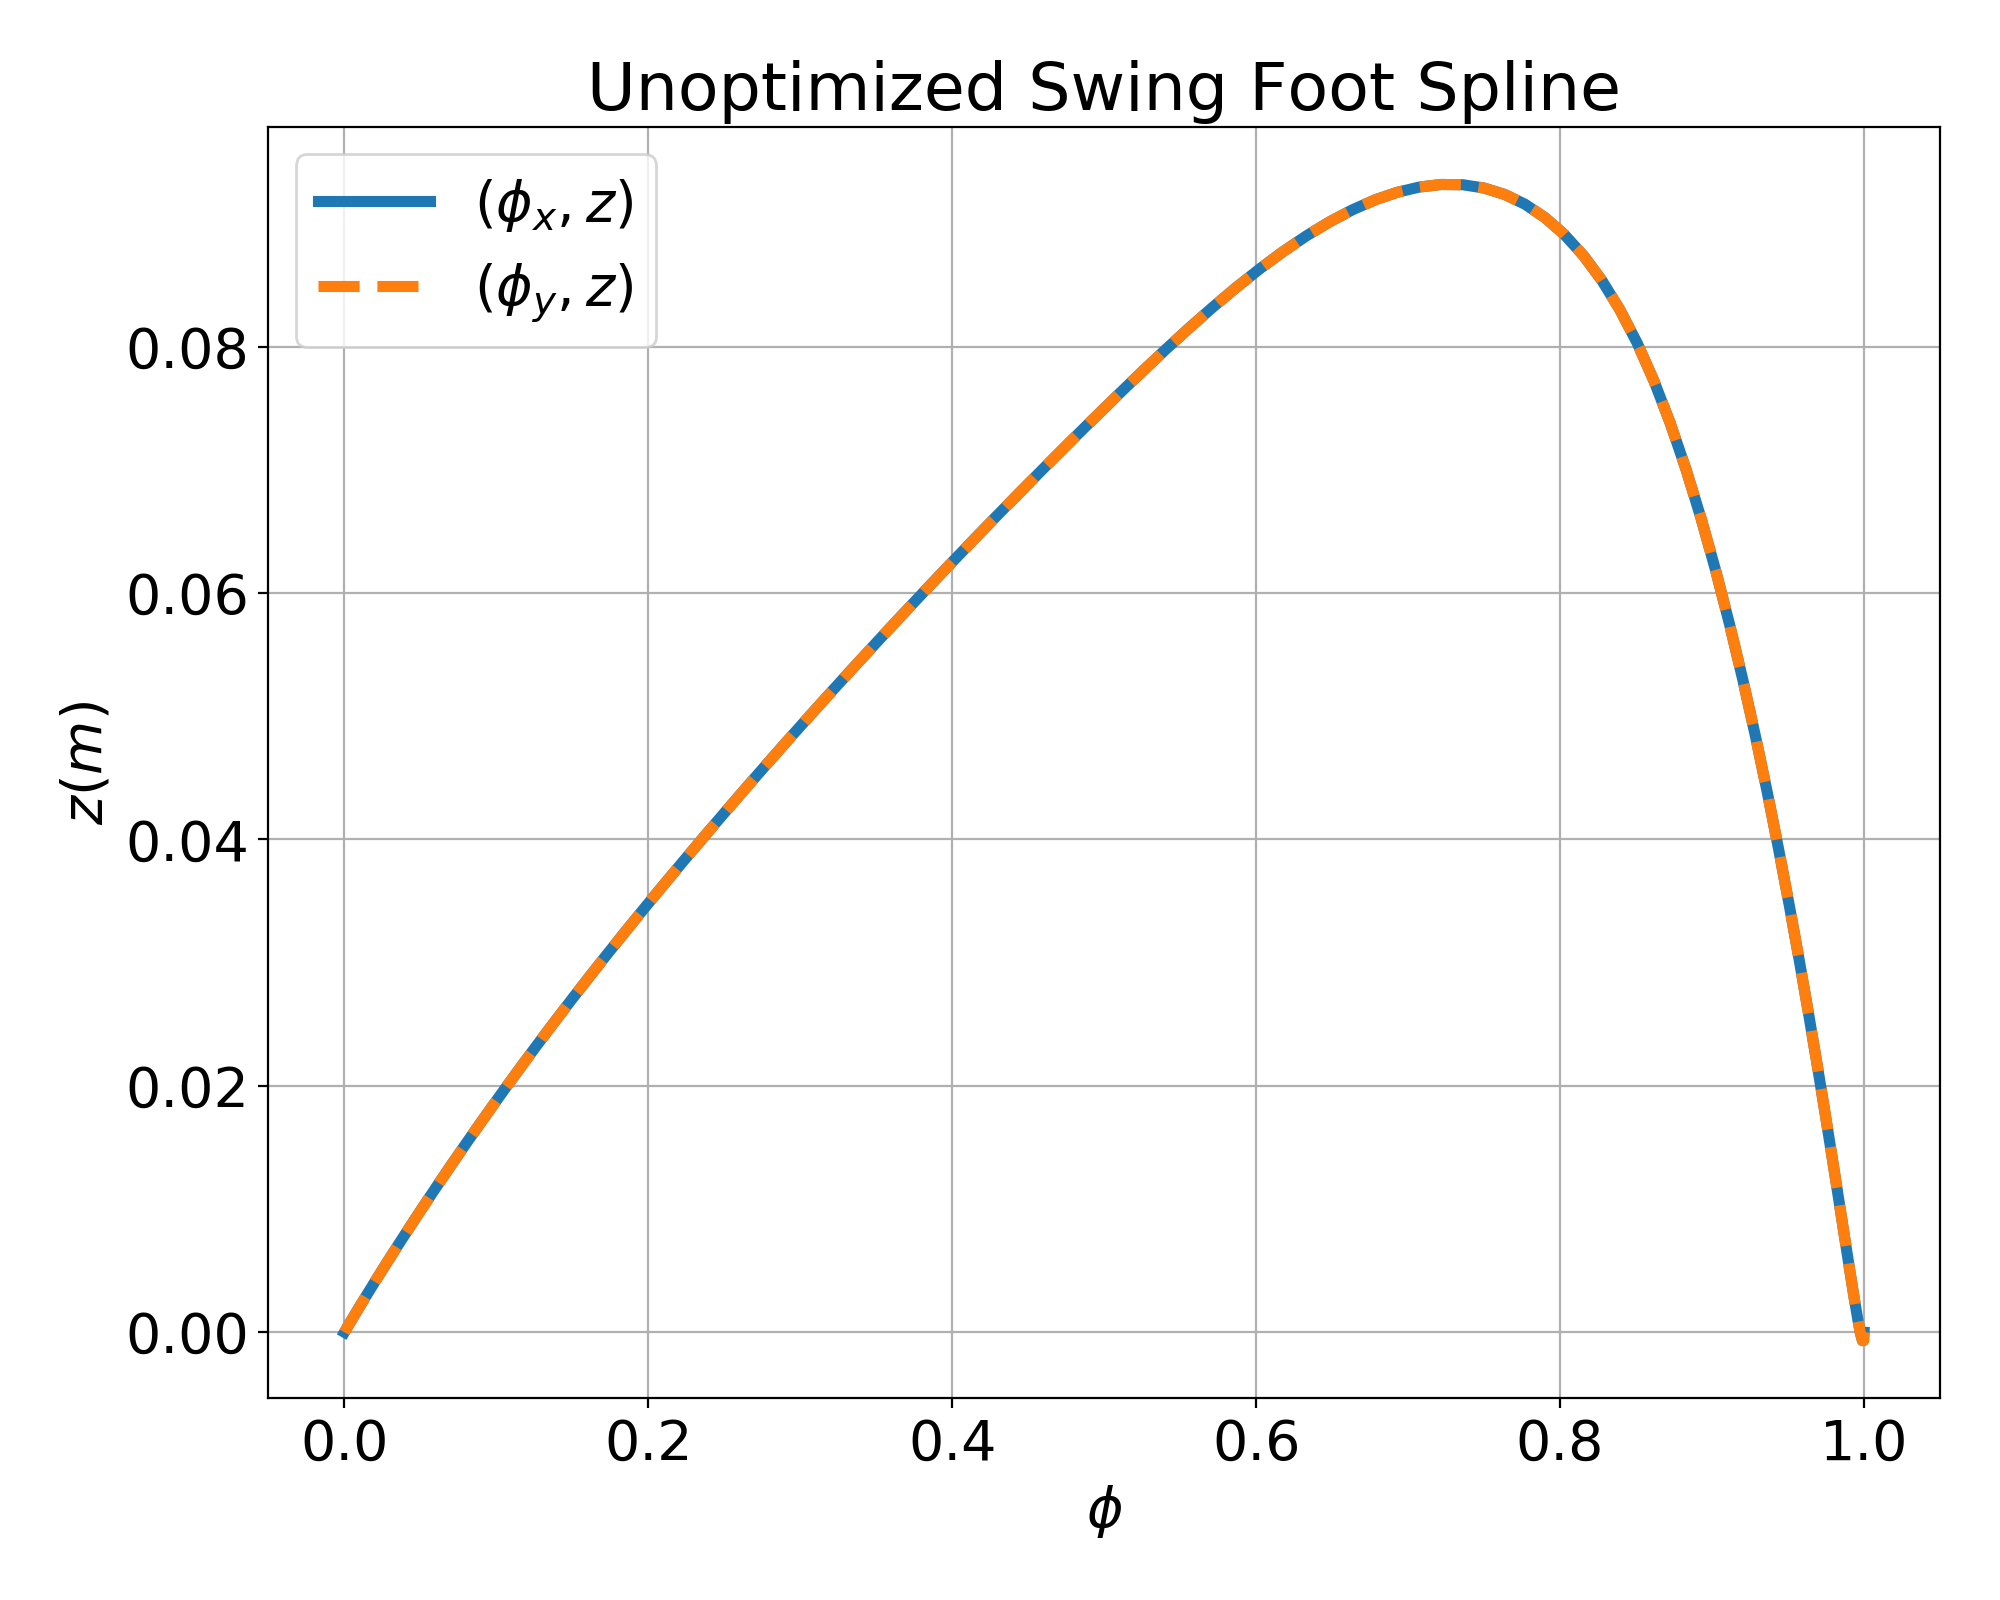
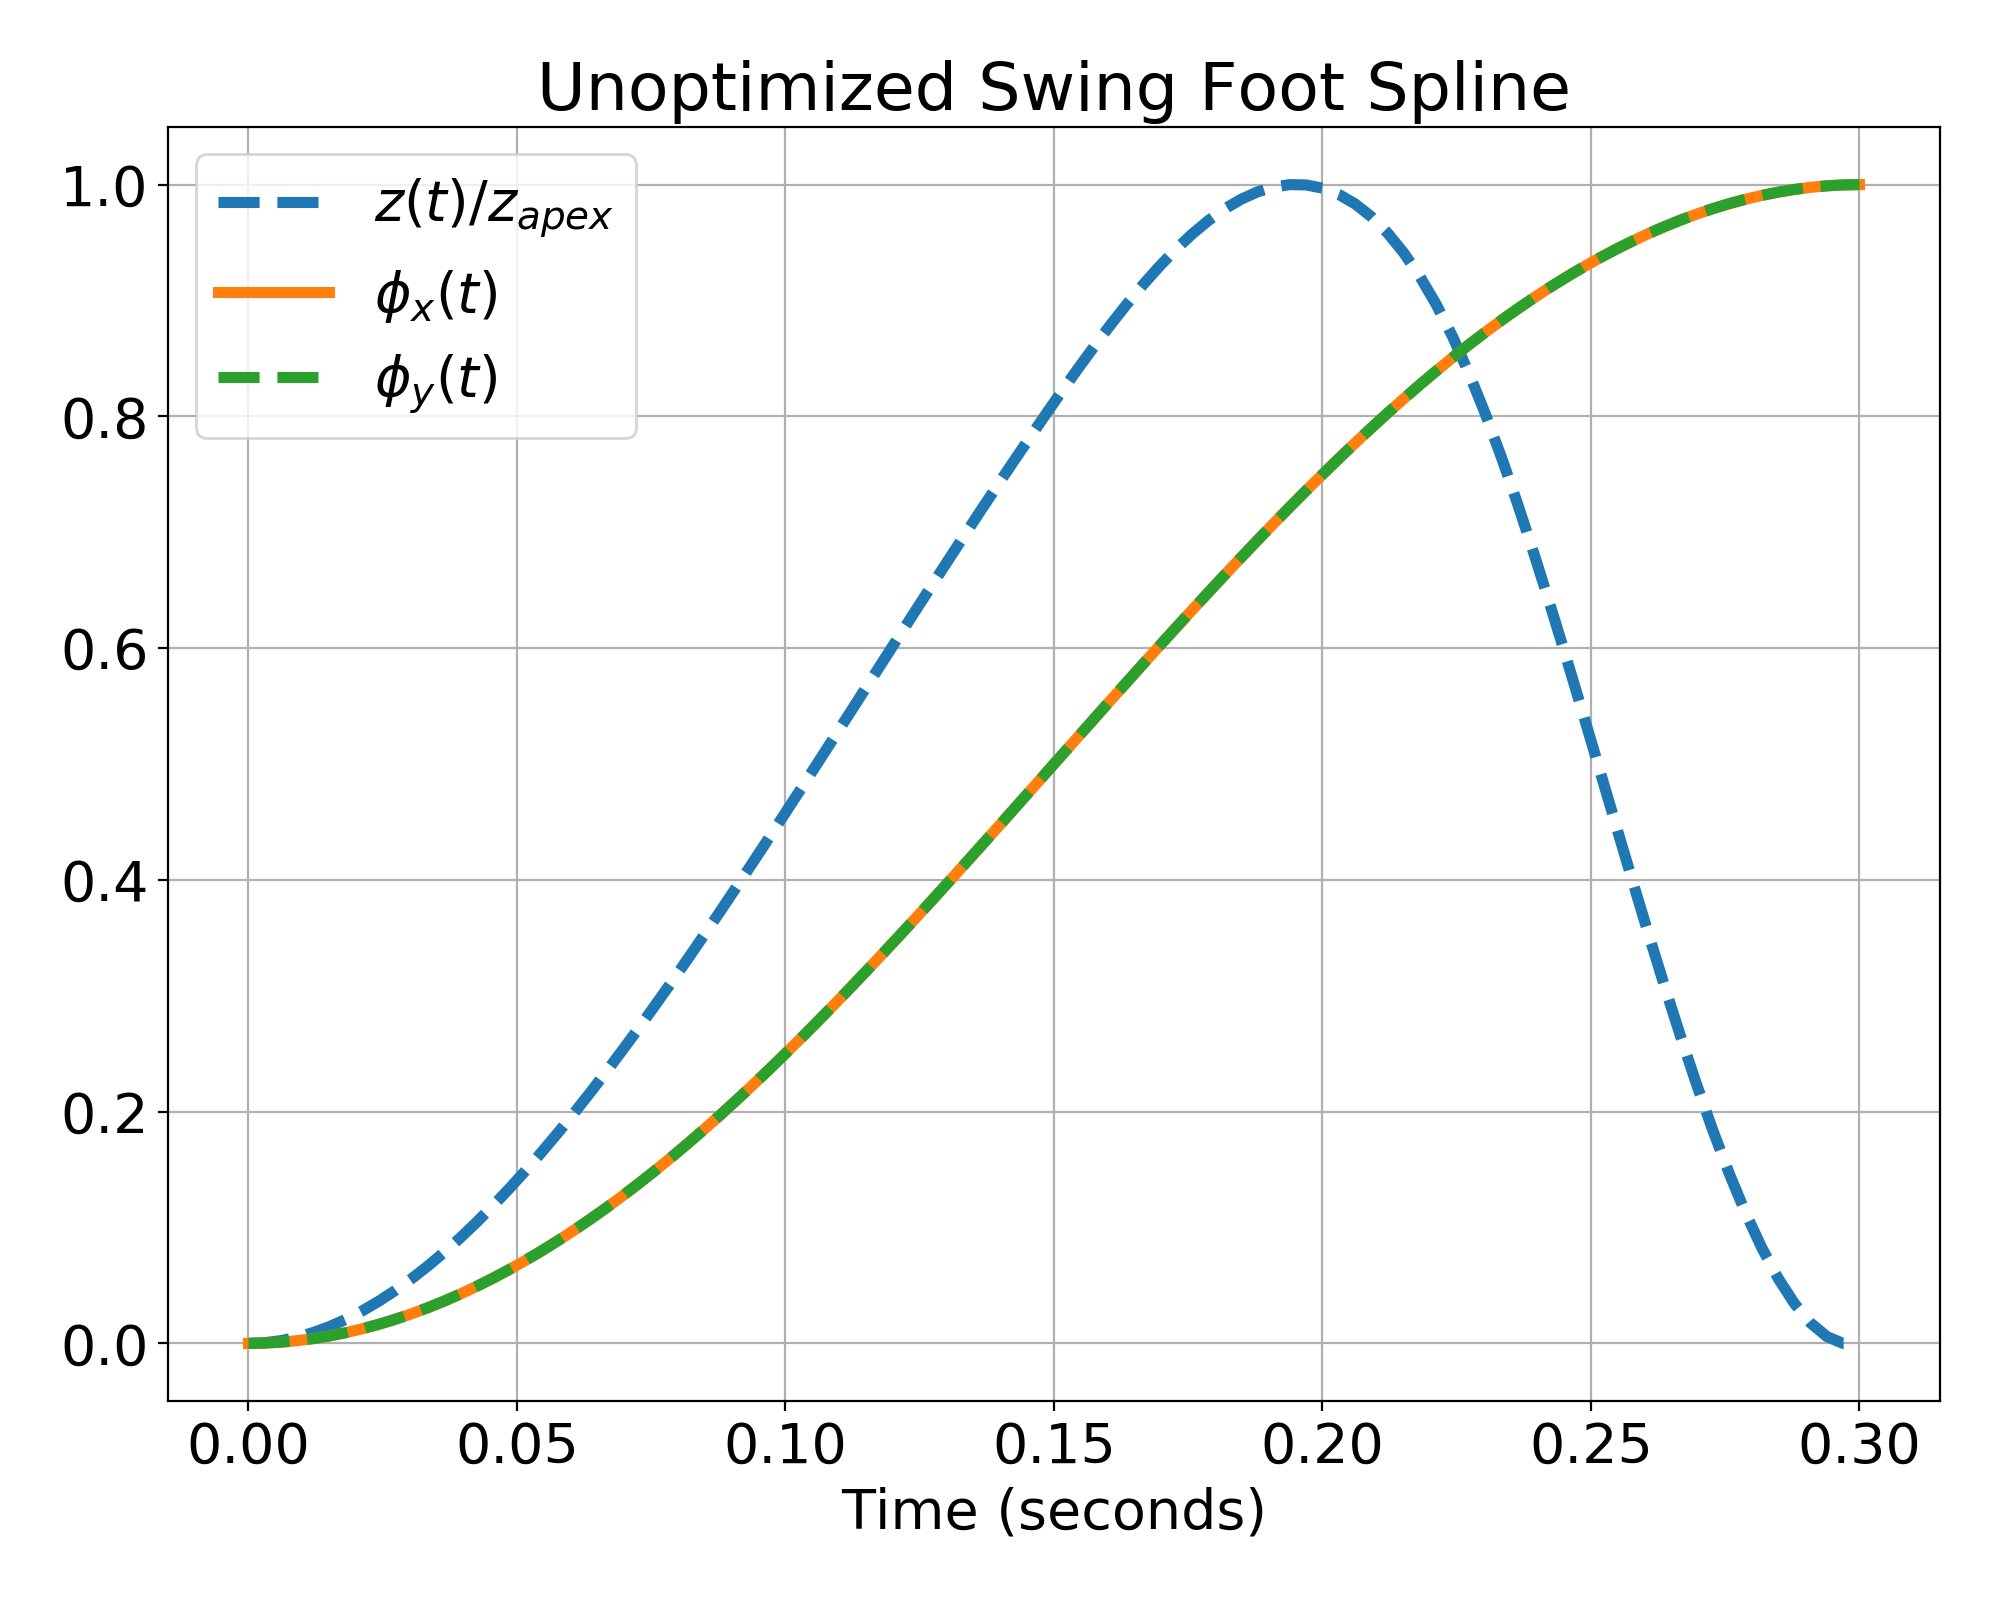
dynamics walking prep stuff

diff --git a/bindings/pydairlib/cassie/learn_swing_foot_spline.py b/bindings/pydairlib/cassie/learn_swing_foot_spline.py
@@ -17,7 +17,7 @@ class SwingFootSplineOptimizer:
         self.budget = budget
         self.env = make_swing_ft_env()
         self.default_action = get_default_params()
-        self.date_prefix = time.strftime("%Y_%m_%d_%H_&m")
+        self.date_prefix = time.strftime("%Y_%m_%d_%H_%m")
         self.data_folder = 'bindings/pydairlib/cassie/data/'
 
     def get_single_reward(self, action):
@@ -58,7 +58,7 @@ def params_to_traj(params, duration):
     return pp
 
 
-def params_to_xyz_samples(params, duration, n):
+def params_to_xyzt_samples(params, duration, n):
     pp = params_to_traj(params, duration)
     t = np.linspace(0, duration, n)
     x = np.zeros(t.shape)
@@ -69,18 +69,22 @@ def params_to_xyz_samples(params, duration, n):
         x[i] = xyz[0]
         y[i] = xyz[1]
         z[i] = xyz[-1]
-    return x, y, z
+    return x, y, z, t
 
 
 def plot_swing_foot_params(params, title, filename):
     ps = PlotStyler()
-    ps.set_default_styling('bindings/pydairlib/cassie/data/')
-    x, y, z = params_to_xyz_samples(params, 1.0, 100)
+    ps.set_default_styling('/home/brian/Documents/research/dw2022/template_files/')
+    x, y, z, t = params_to_xyzt_samples(params, 0.3, 100)
     ps.plot(x, z, data_label='$(\phi_{x}, z)$', linestyle='-')
     ps.plot(y, z, data_label='$(\phi_{y}, z)$', linestyle='--')
-    plt.xlabel('$\phi$')
-    plt.ylabel('$z (m)$')
-    plt.title(title)
+    plt.xlabel(f'{title} (x, z) and (y, z) Trajectories  ')
+    # plt.ylabel('$z (m)$')
+    # ps.plot(t, x, data_label='$\phi_{x}(t)$', linestyle='-')
+    # ps.plot(t, y, data_label='$\phi_{y}(t)$', linestyle='--')
+    # ps.plot(t, z / np.max(z), data_label='$z(t) / z_{apex}$', linestyle='--')
+    # plt.xlabel('Time (seconds)')
+    # plt.title(title)
     plt.legend()
     ps.save_fig(filename)
 
@@ -92,10 +96,10 @@ def plot_params_from_file(params_filename):
     p = opt.load_params(params_filename, opt.data_folder)
     params = np.array(get_default_params()) + p.value
     plot_swing_foot_params(
-        params, 'Optimized Swing Foot Spline', 'swing_ft_optimized.png')
+        params, 'Optimized', 'spatial_optimized.png')
     plot_swing_foot_params(
         np.array(get_default_params()),
-        'Unoptimized Swing Foot Spline', 'swing_ft_init.png')
+        'Initial', 'spatial_init.png')
 
 def main():
     optimizer = SwingFootSplineOptimizer(1000)

diff --git a/bindings/pydairlib/common/plot_styler.py b/bindings/pydairlib/common/plot_styler.py
@@ -35,11 +35,11 @@ class PlotStyler():
     self.directory = directory
     matplotlib.rcParams["savefig.directory"] = directory
     matplotlib.rcParams['text.latex.preamble'] = [r"\usepackage{amsmath}"]
-    matplotlib.rcParams['figure.figsize'] = 10, 8
+    matplotlib.rcParams['figure.figsize'] = 8, 6
     # matplotlib.rcParams['figure.figsize'] = 20, 6
     # matplotlib.rcParams['figure.figsize'] = 8, 5
     matplotlib.rcParams['figure.autolayout'] = True
-    font = {'size': 20}
+    font = {'size': 24}
     matplotlib.rc('font', **font)
     matplotlib.rcParams['lines.linewidth'] = 4
     plt.set_cmap('tab20')
